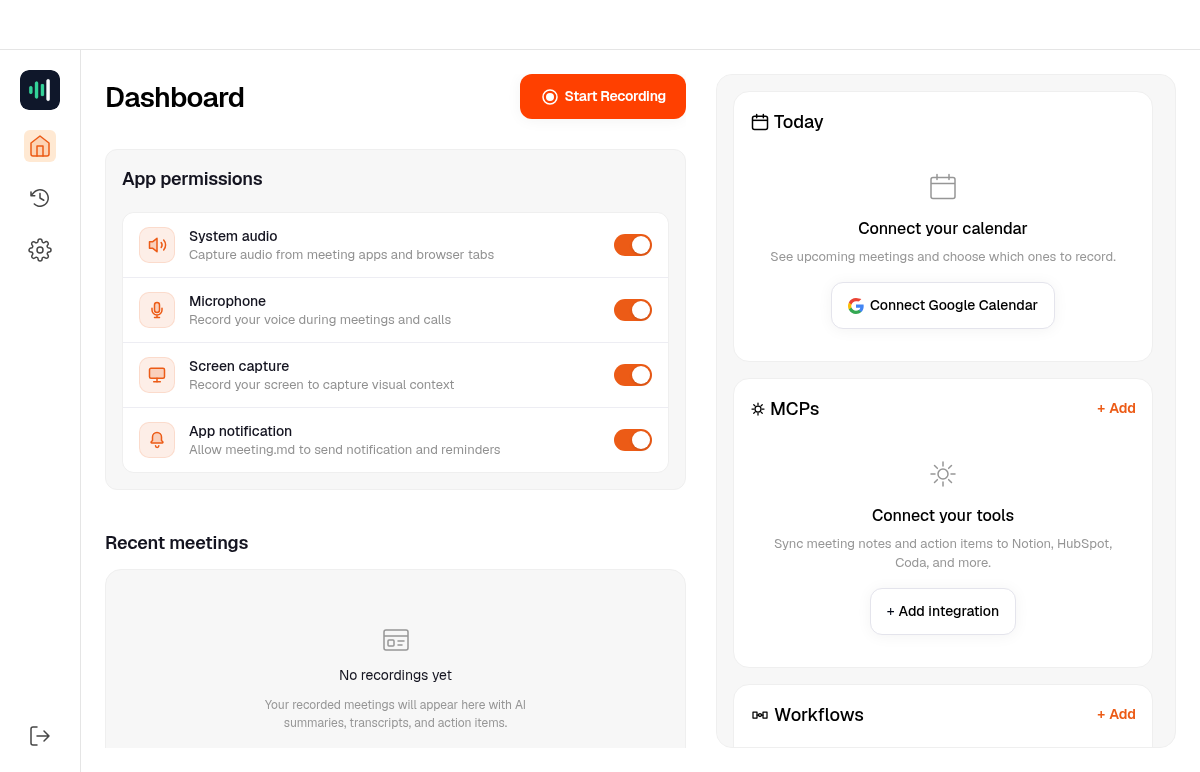
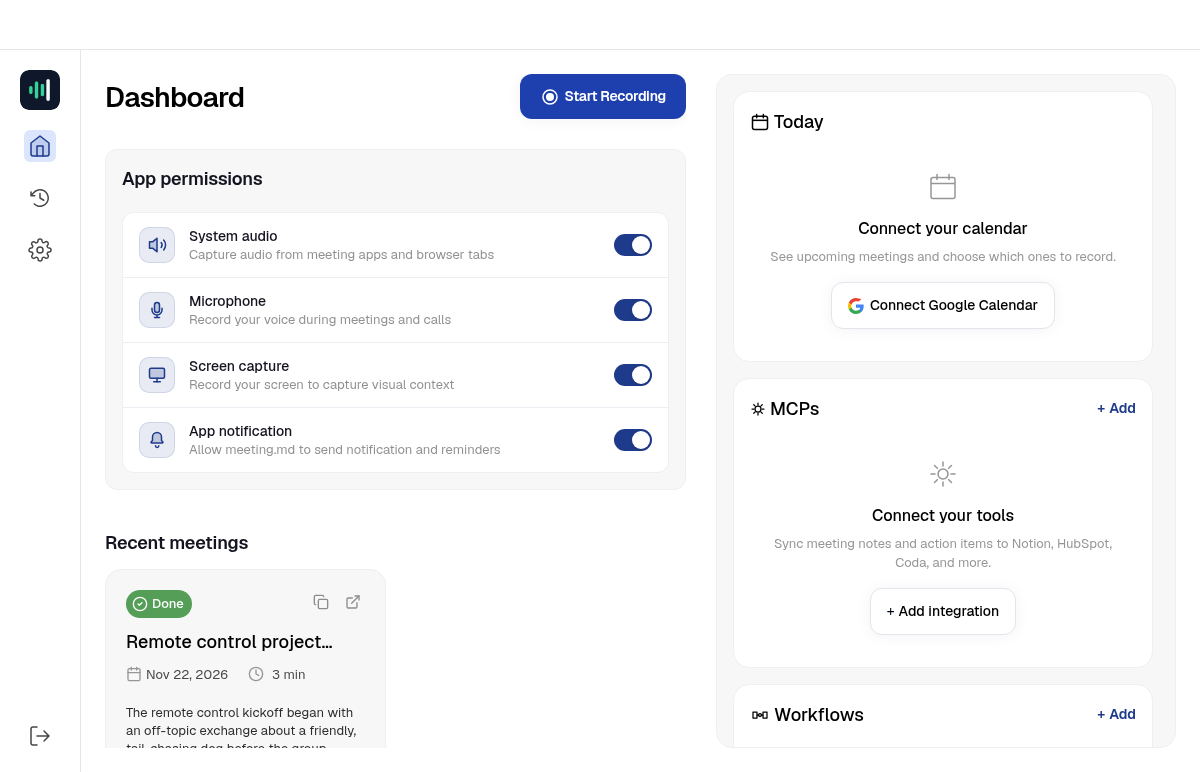
Pull the server image from Docker Hub by default and document both install paths
docker compose now uses the published image unless one has been built
locally. The README gains a quick start for the published image, steps for
building it yourself or running without Docker, and screenshots from a real
run.

diff --git a/README.md b/README.md
@@ -8,9 +8,17 @@ The desktop app is a fork of [Call.md](https://github.com/video-db/call.md) by
 VideoDB, which sends all of that to VideoDB's cloud. meeting.md is not
 affiliated with or endorsed by VideoDB.
 
-| Sign-in | Dashboard |
+| During the meeting | Afterwards |
 | --- | --- |
-| ![Sign-in screen](docs/images/login.png) | ![Dashboard](docs/images/dashboard.png) |
+| ![Live transcript and suggestions](docs/images/live.png) | ![Summary, key points and recording](docs/images/results.png) |
+
+| Sign-in | Dashboard | Meeting prep |
+| --- | --- | --- |
+| ![Sign-in screen](docs/images/login.png) | ![Dashboard](docs/images/dashboard.png) | ![AI-generated checklist](docs/images/checklist.png) |
+
+Screenshots are from a real run using the Claude Code provider. The meeting
+shown is ES2002a from the [AMI Meeting Corpus](https://groups.inf.ed.ac.uk/ami/corpus/)
+(CC BY 4.0).
 
 ```
 app/            desktop app (fork of Call.md): backend URL override, Linux recording
@@ -41,22 +49,53 @@ desktop app ──REST + WebSocket──▶ server ──▶ LLM: OpenAI-compati
 
 ## Run the backend
 
-Needs Docker. On a CPU, use Whisper `base` (the default); `small` and larger
-need a GPU to keep up with live audio.
+Needs Docker and git. Whisper runs on the CPU by default.
+
+### Quick start: published image
 
 ```sh
+git clone https://github.com/huh12312/meeting.md && cd meeting.md
 deploy/gen-cert.sh                 # self-signed cert for RTSPS, pinned by clients
-cp .env.example .env               # then set LLM_BASE_URL / LLM_MODEL
+cp .env.example .env               # then choose an LLM, see "LLM providers"
 docker compose up -d
 docker compose logs server         # prints the generated API key on first start
 ```
 
-That builds the server image from `./server`. To run a published release
-instead, set `MEETING_MD_IMAGE=<dockerhub user>/meeting.md:<version>` in `.env`.
+`docker compose up` pulls the server image
+[`masterhuh/meeting.md`](https://hub.docker.com/r/masterhuh/meeting.md) from Docker Hub
+(amd64 and arm64), along with MediaMTX and a Whisper server. To pin a version,
+set `MEETING_MD_IMAGE=masterhuh/meeting.md:0.1.0` in `.env`.
+
+### Build it yourself
+
+Same steps, but build the server image from this repository before starting:
+
+```sh
+docker compose build server        # add --build-arg INSTALL_CLAUDE_CODE=0 for a smaller image without the Claude Code CLI
+docker compose up -d
+```
+
+A locally built image takes precedence over the published one until you remove
+it or run `docker compose pull server`.
+
+### Without Docker
+
+Run MediaMTX with `deploy/mediamtx.yml` and any OpenAI-compatible Whisper
+server, then:
+
+```sh
+cd server && npm install
+LLM_PROVIDER=… STT_BASE_URL=http://localhost:8000/v1 node src/index.js
+```
+
+Needs Node 22.13+ and ffmpeg on the PATH.
+
+### Settings
 
 `.env` is commented. The two things you must decide are the LLM provider (next
 section) and, if the app runs on another machine, `PUBLIC_URL` /
-`RTSP_PUBLISH_URL`.
+`RTSP_PUBLISH_URL`. On a CPU, keep Whisper `base` (the default); `small` and
+larger need a GPU to keep up with live audio.
 
 ## LLM providers
 
@@ -96,9 +135,6 @@ login, so meeting.md does not support running it that way. With an API key the
 `anthropic` provider does the same job with less overhead; `claude-code` is
 there for setups that standardise on the CLI.
 
-Without Docker: run MediaMTX with `deploy/mediamtx.yml`, then
-`cd server && npm install && LLM_PROVIDER=… STT_BASE_URL=… node src/index.js`
-(Node 22.13+ and ffmpeg on the PATH).
 
 ## Run the app
 
@@ -139,6 +175,10 @@ Verified on Linux (Arch, Node 26, ffmpeg 9), against the unmodified `videodb`
 - a real meeting end to end on `claude-code` (Sonnet): ten minutes of a
   four-person meeting from the AMI corpus through the app, covering the setup
   wizard, live assist, summary, key points and action items
+- the published Docker Hub image: pulled, run with building disabled, and put
+  through the SDK-driven end-to-end test and a recording from the app
+- back-to-back meetings in one app session, each getting its own live-assist
+  context
 - `anthropic` provider against a mock Messages endpoint through the real SDK:
   request translation, tool round-trips with thinking blocks replayed, images,
   JSON mode, streaming, refusal and error mapping
